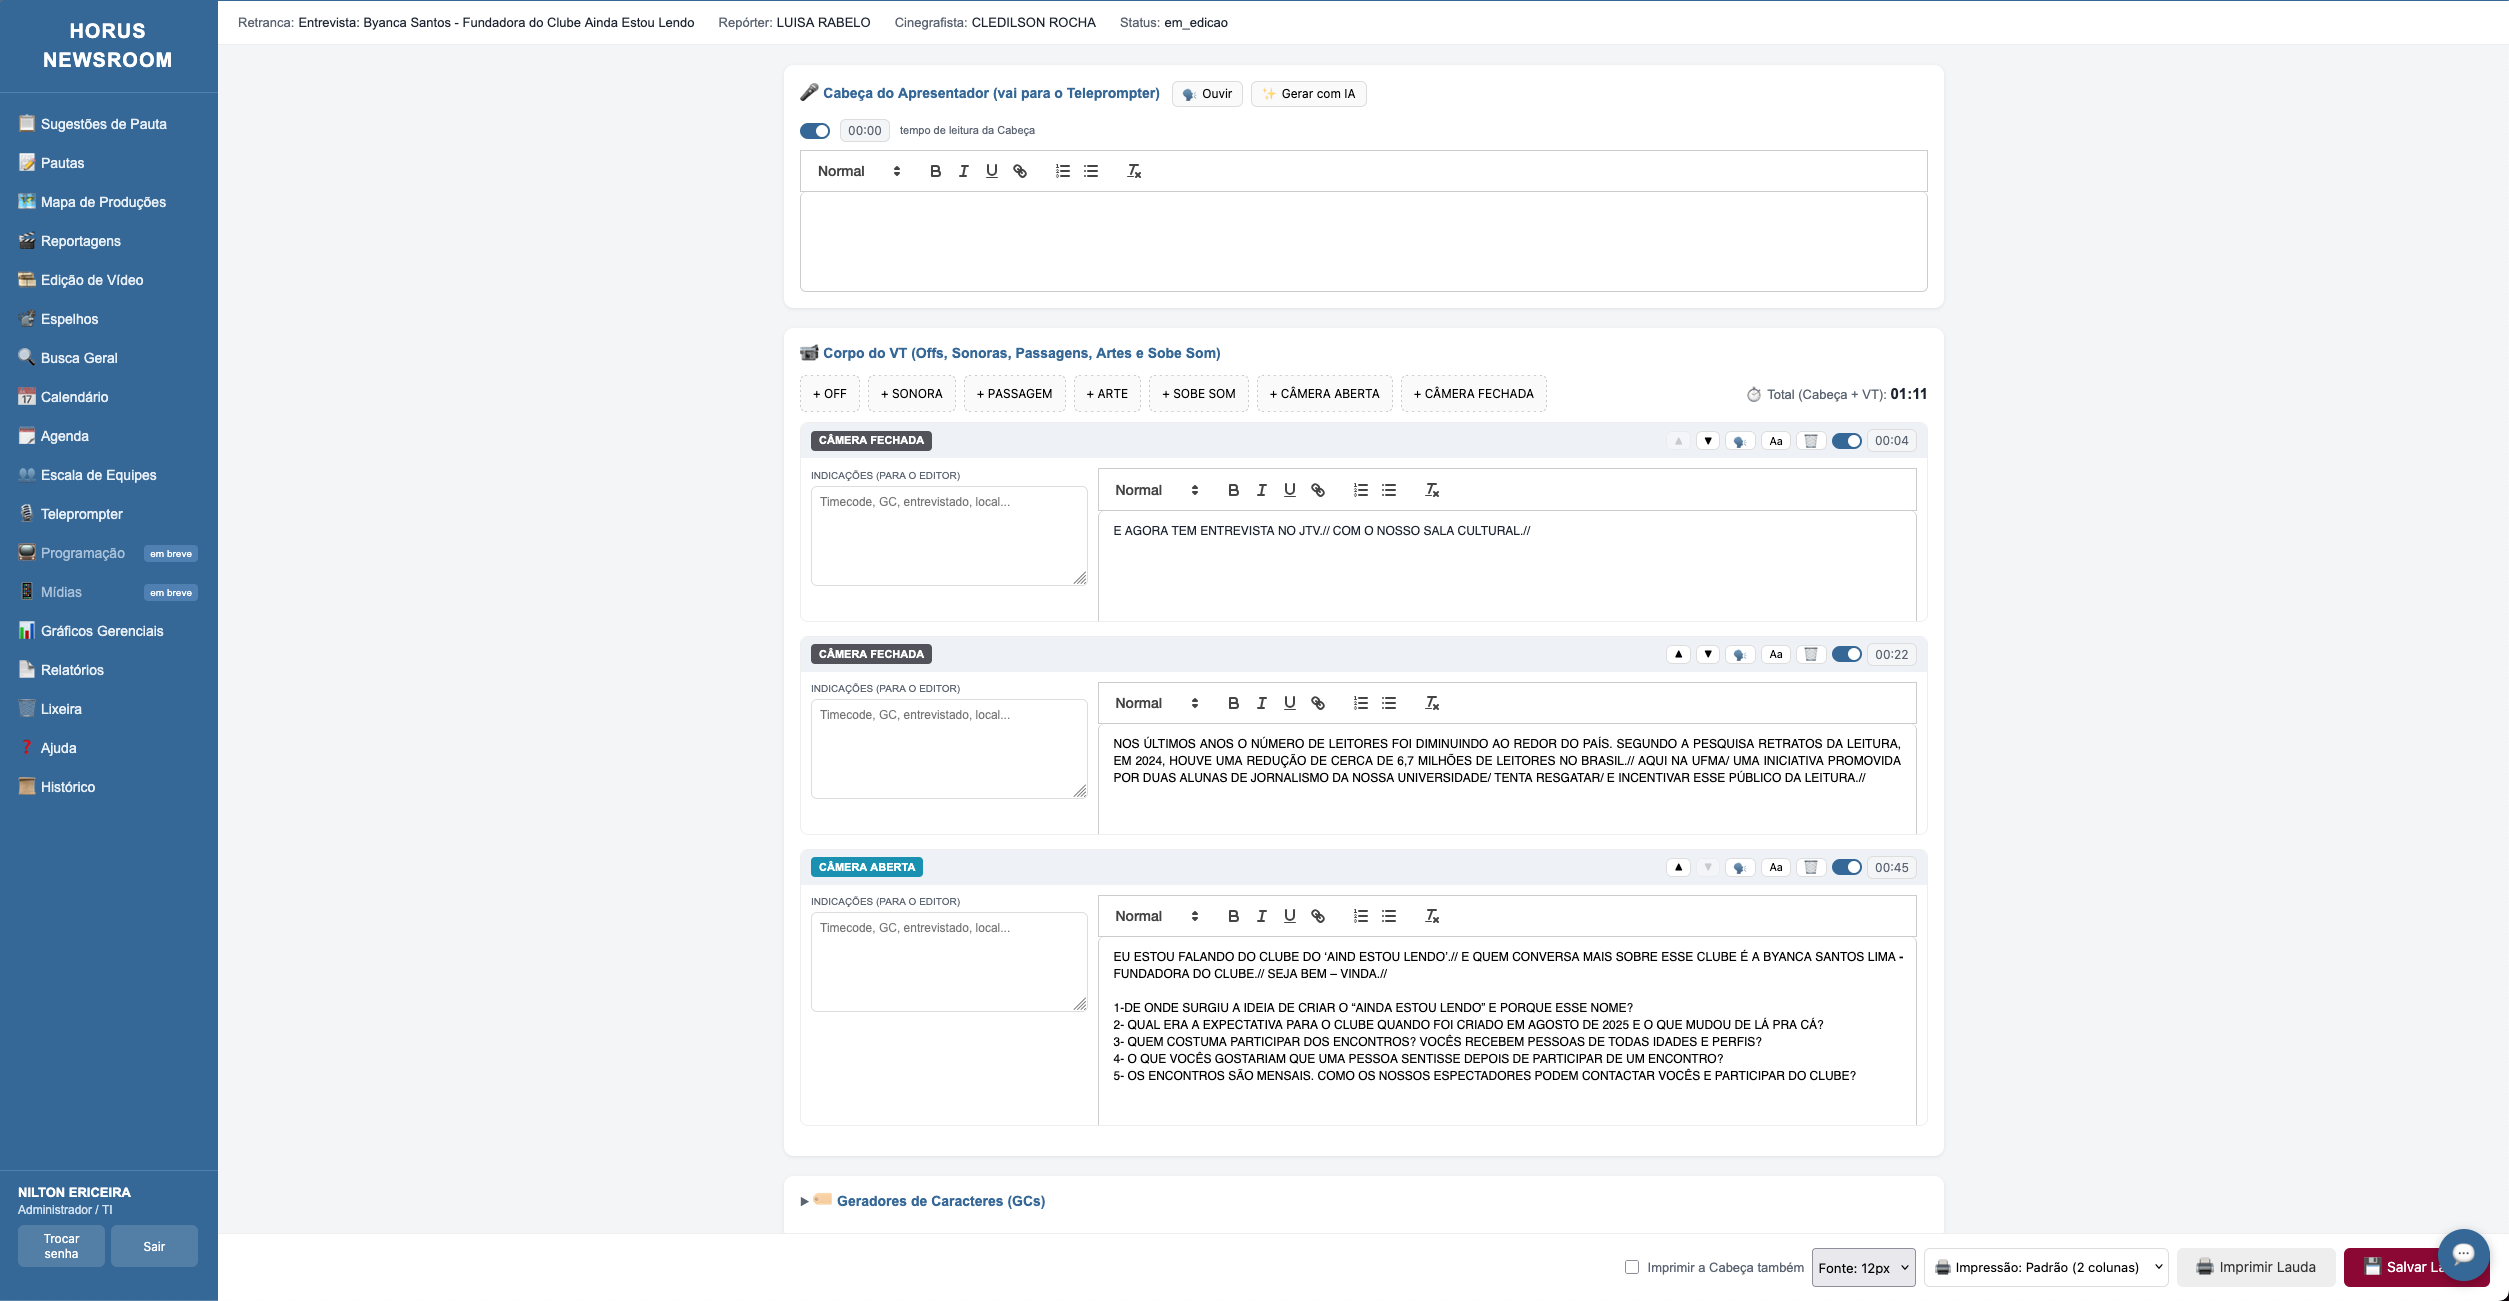
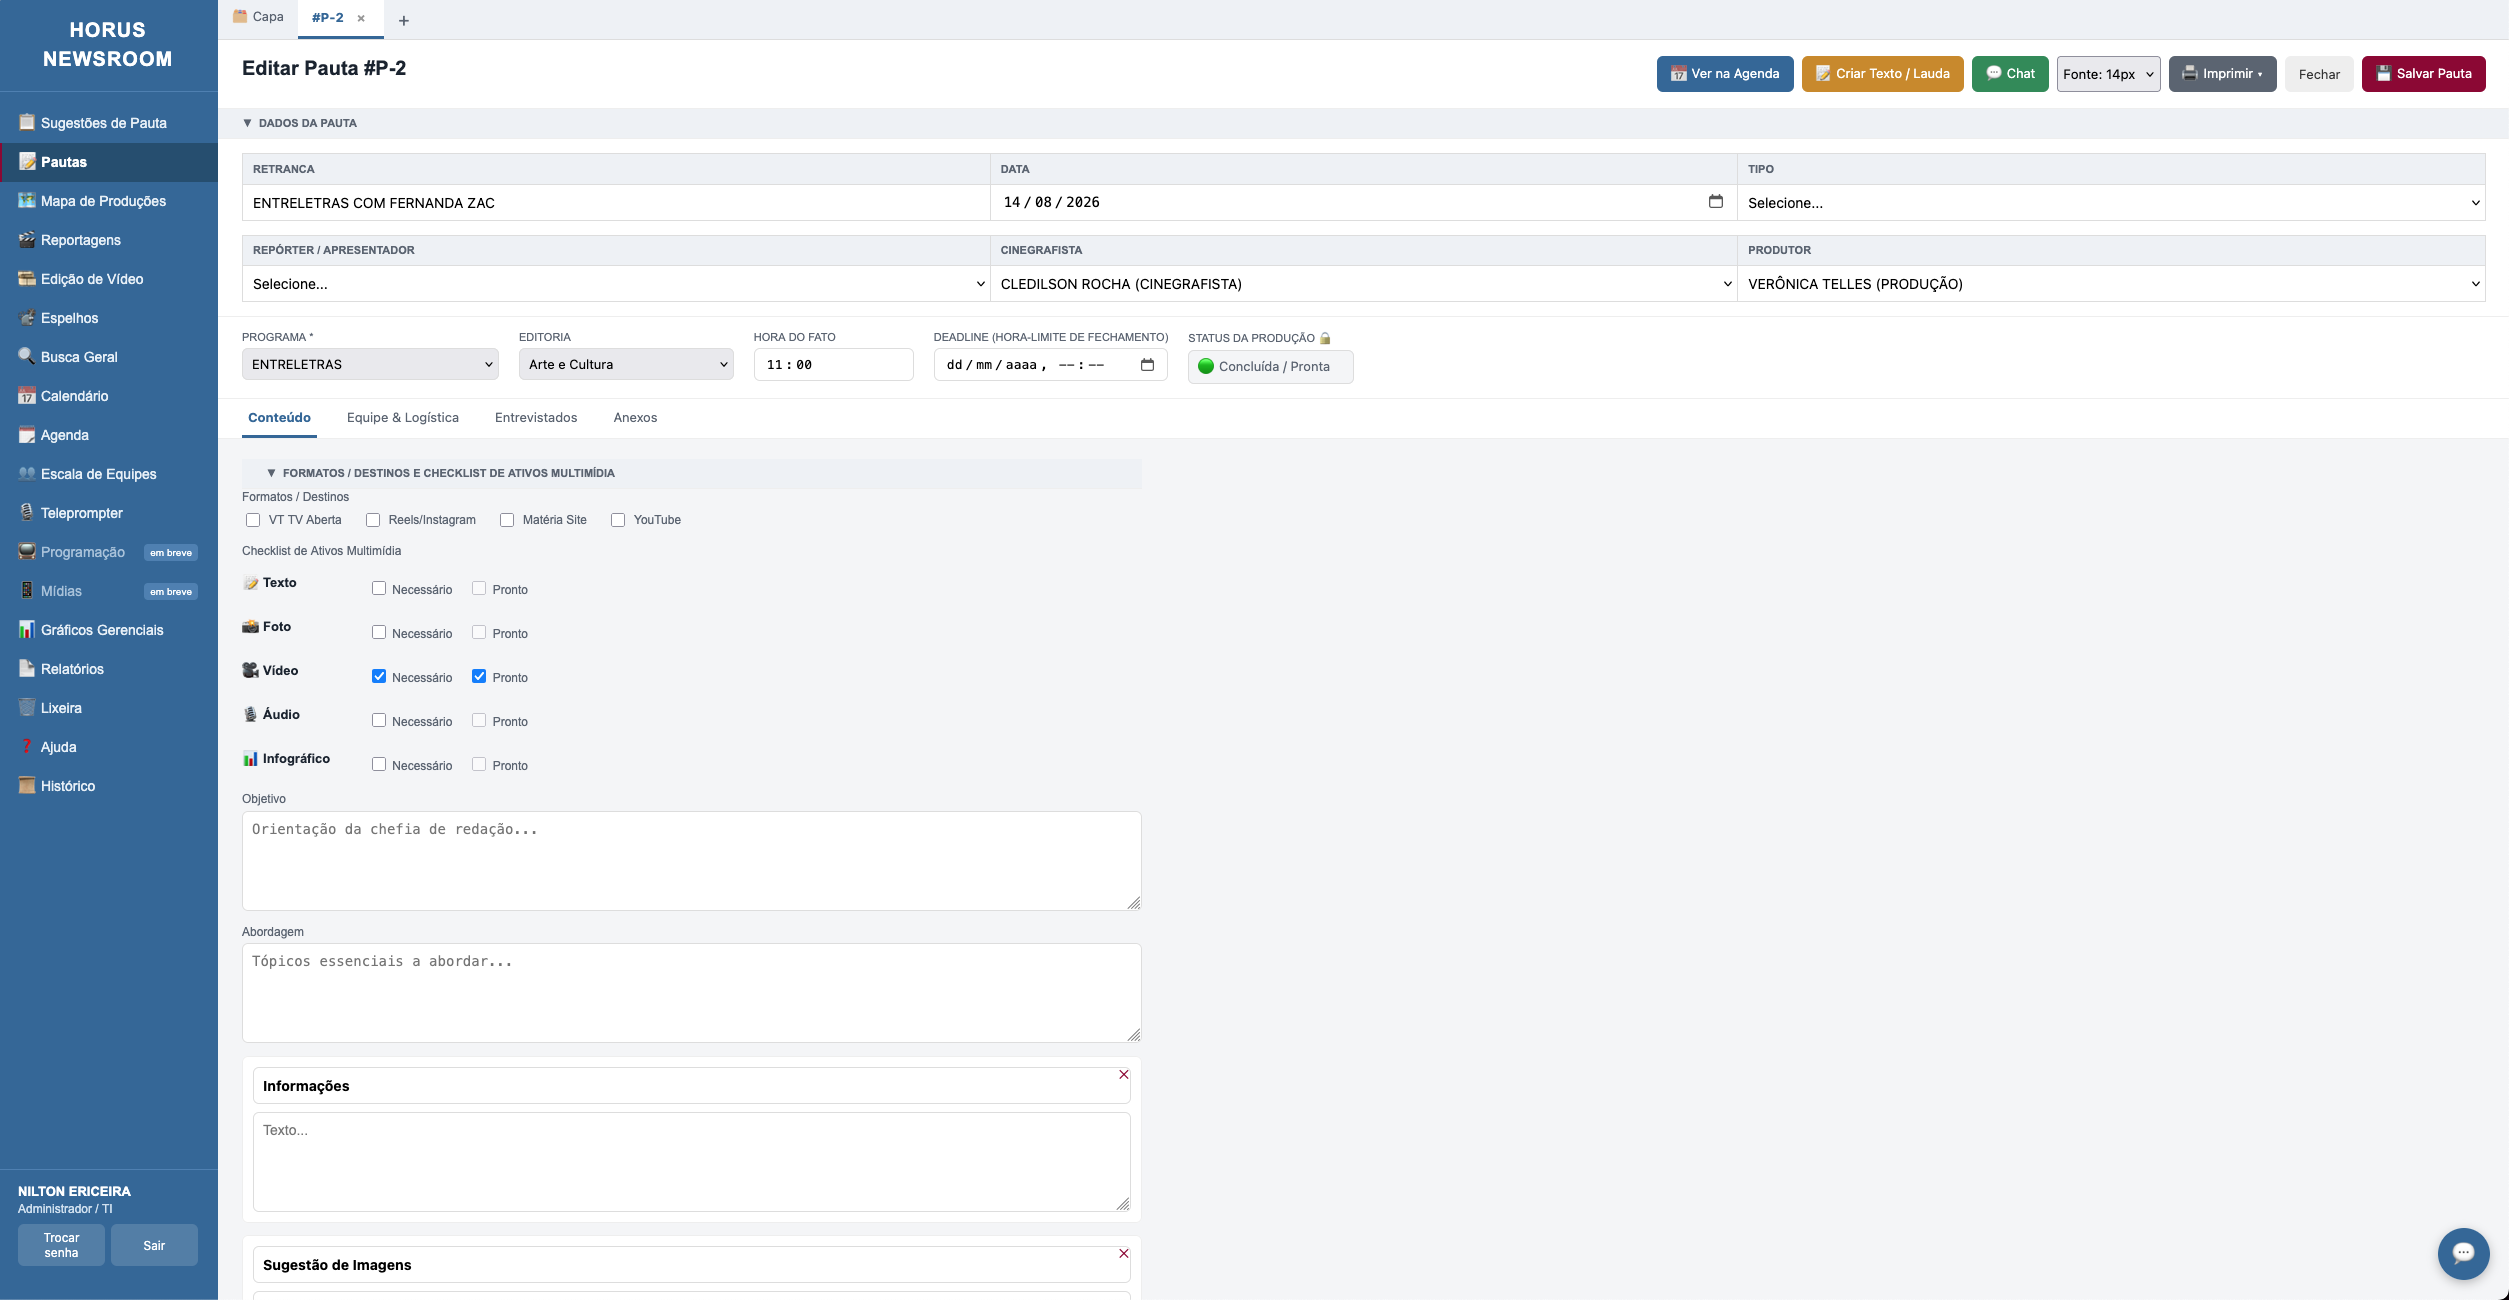
Substitui imagem repetida tela02 do HORUS

diff --git a/service-worker.js b/service-worker.js
@@ -1,4 +1,4 @@
-const CACHE_NAME = "nilton-portfolio-v13";
+const CACHE_NAME = "nilton-portfolio-v14";
 
 const PRECACHE_URLS = [
     "index.html",
